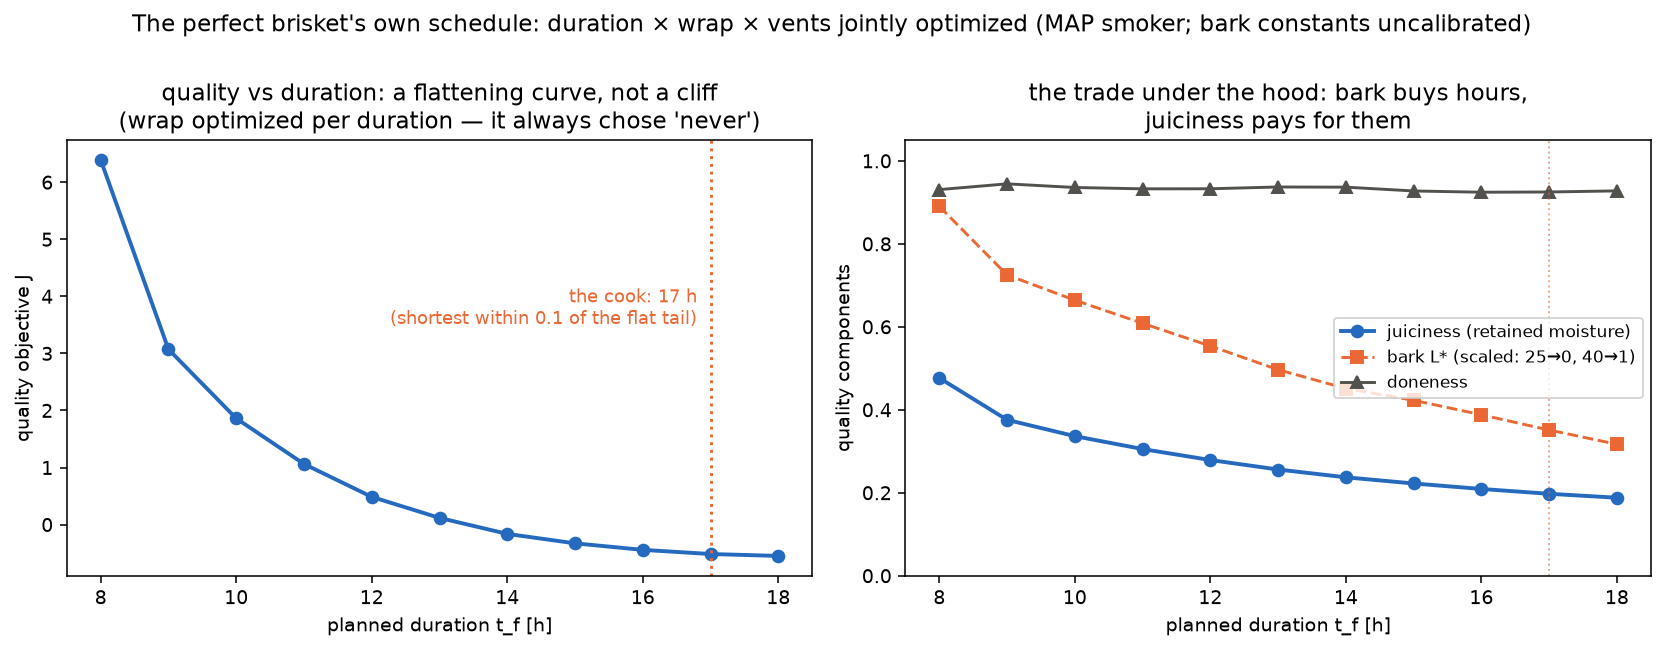
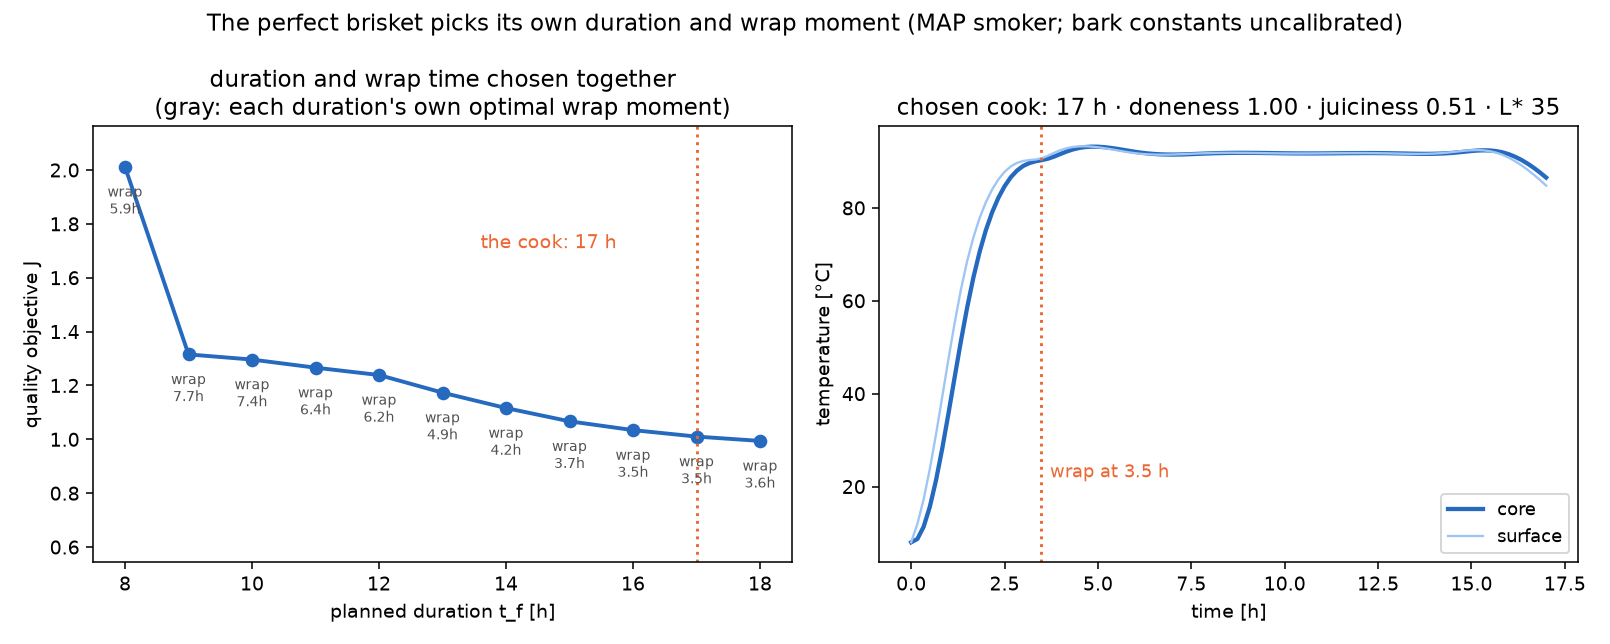
Fullplan under final physics + theta=7 MAP: 17h cook, wrap at 3.5h
The optimizer now CHOOSES the crutch (placeholder-era objective never
wrapped): smoke ~3.5h for bark/smoke band, wrap to kill evaporative loss,
hold ~90C to 17h. J plateaus (gains halve per added hour; 17h = plateau
left edge per the 2% rule). Juiciness 0.51 (water 0.435 + rendered fat),
doneness 1.000, L* 35.3 (one point above the mahogany band; bark
constants uncalibrated).

Also: extension runs now plot the merged 8-18h axis and write
fullplan_merged.json; timeplan records carry true juiciness (the old
records stored water-only w_retained which run_fullplan printed AS
juiciness — mislabel fixed, both now logged).

diff --git a/scripts/run_fullplan.py b/scripts/run_fullplan.py
@@ -92,7 +92,8 @@ def main():
     print(
         f"THE COOK: {best['t_f_h']:.0f} h total, wrap at "
         f"{best['t_wrap_h']:.2f} h — doneness {best['doneness']:.3f}, "
-        f"juiciness {best['w_retained']:.3f}, bark L* {best['l_star_end']:.1f}"
+        f"juiciness {best.get('juiciness', best['w_retained']):.3f}, "
+        f"bark L* {best['l_star_end']:.1f}"
     )
 
     (REPO / "data" / "control").mkdir(parents=True, exist_ok=True)
@@ -136,10 +137,41 @@ def main():
     fig, axes = plt.subplots(1, 2, figsize=(11.5, 4.6))
 
     ax = axes[0]
-    t_fs = np.array([r["t_f_h"] for r in records])
-    js = np.array([r["j_quality"] for r in records])
+    # extension runs plot the FULL merged duration axis (base + extension)
+    # so the figure tells the whole rising-then-plateau story, and persist
+    # the merged scan for the writeup
+    plot_recs = [
+        {k: r[k] for k in ("t_f_h", "j_quality", "t_wrap_h")} for r in records
+    ]
+    if RESULT_NAME.endswith("_ext.json"):
+        base_r = json.loads(
+            (REPO / "data" / "control" / "fullplan_result.json").read_text()
+        )
+        plot_recs = [
+            {"t_f_h": t, "j_quality": j, "t_wrap_h": w}
+            for t, j, w in zip(
+                base_r["durations_h"],
+                base_r["j_quality"],
+                base_r["t_wrap_h"],
+                strict=True,
+            )
+        ] + plot_recs
+        (REPO / "data" / "control" / "fullplan_merged.json").write_text(
+            json.dumps(
+                {
+                    "durations_h": [r["t_f_h"] for r in plot_recs],
+                    "j_quality": [r["j_quality"] for r in plot_recs],
+                    "t_wrap_h": [r["t_wrap_h"] for r in plot_recs],
+                    "best_t_f_h": best["t_f_h"],
+                    "best_t_wrap_h": best["t_wrap_h"],
+                },
+                indent=2,
+            )
+        )
+    t_fs = np.array([r["t_f_h"] for r in plot_recs])
+    js = np.array([r["j_quality"] for r in plot_recs])
     ax.plot(t_fs, js, "o-", color=BLUE, lw=2)
-    for r in records:
+    for r in plot_recs:
         ax.annotate(
             f"wrap\n{r['t_wrap_h']:.1f}h",
             (r["t_f_h"], r["j_quality"]),

diff --git a/app/src/brisket_app/timeplan.py b/app/src/brisket_app/timeplan.py
@@ -100,6 +100,7 @@ def plan_duration(
         )
         c_end = float(np.asarray(sim["c_field_final"])[0])
         w_ret = float(np.asarray(sim["w_retained"]))
+        juicy = float(np.asarray(sim["juiciness"]))
         l_end = float(np.asarray(sim["l_star"])[-1])
         records.append(
             {
@@ -109,13 +110,15 @@ def plan_duration(
                 "j_quality": float(hist["losses"][-1]),
                 "doneness": c_end,
                 "w_retained": w_ret,
+                "juiciness": juicy,
                 "t_wrap_h": (t_wrap / HR) if cc.opt_wrap else None,
                 "l_star_end": l_end,
             }
         )
         log(
             f"  t_f={th_f:5.1f} h  J={records[-1]['j_quality']:7.3f}  "
-            f"doneness={c_end:.3f}  juiciness={w_ret:.3f}  L*={l_end:.1f}"
+            f"doneness={c_end:.3f}  juiciness={juicy:.3f}  "
+            f"(water {w_ret:.3f})  L*={l_end:.1f}"
             + (f"  wrap@{t_wrap / HR:.2f} h" if cc.opt_wrap else "")
         )
     return records
